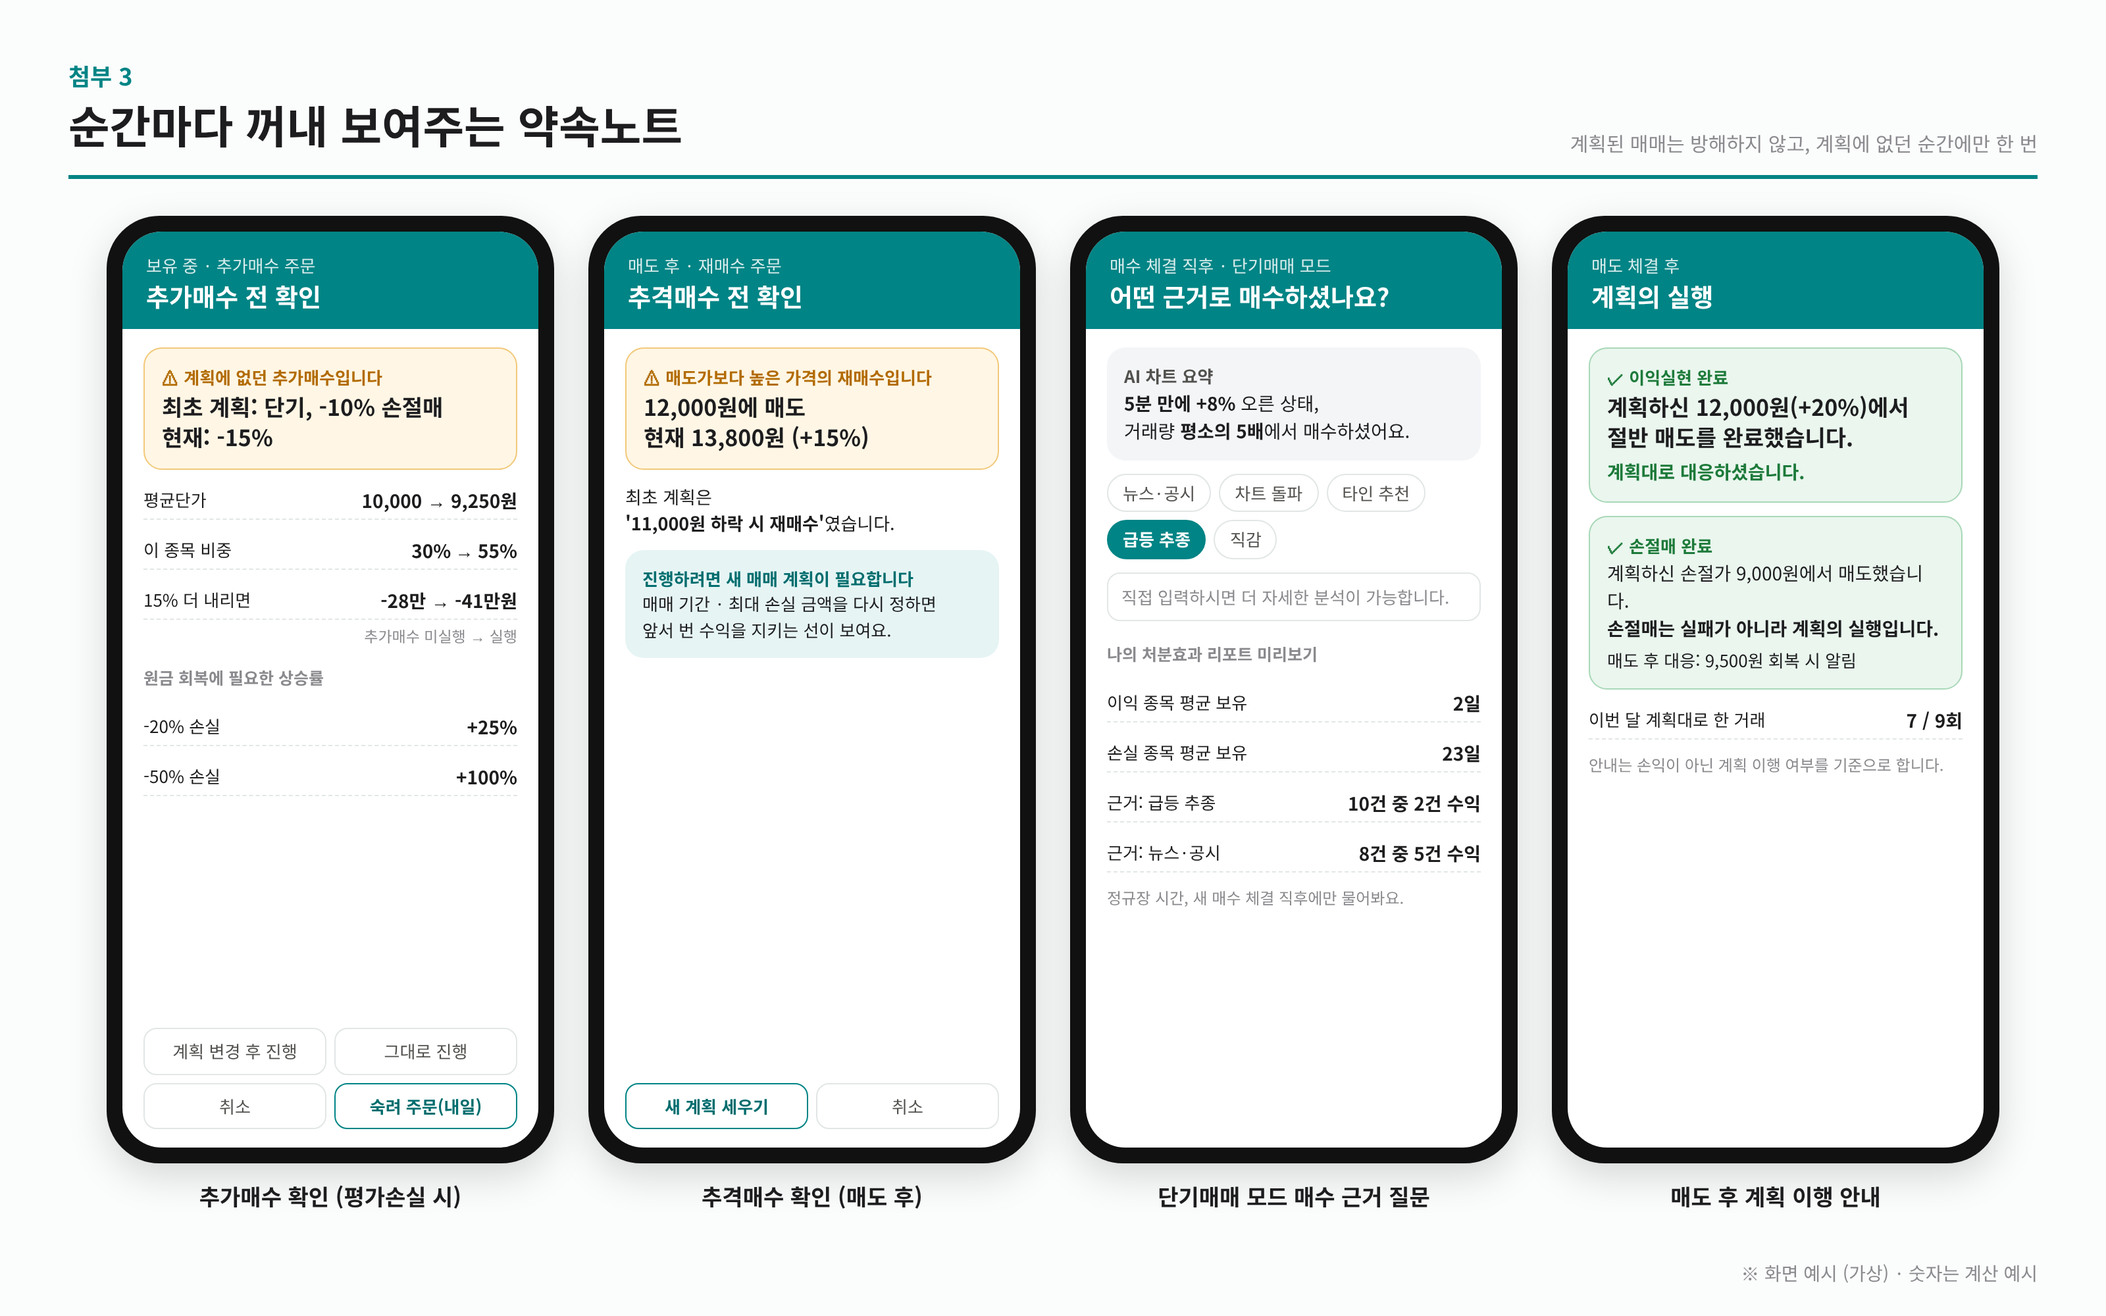
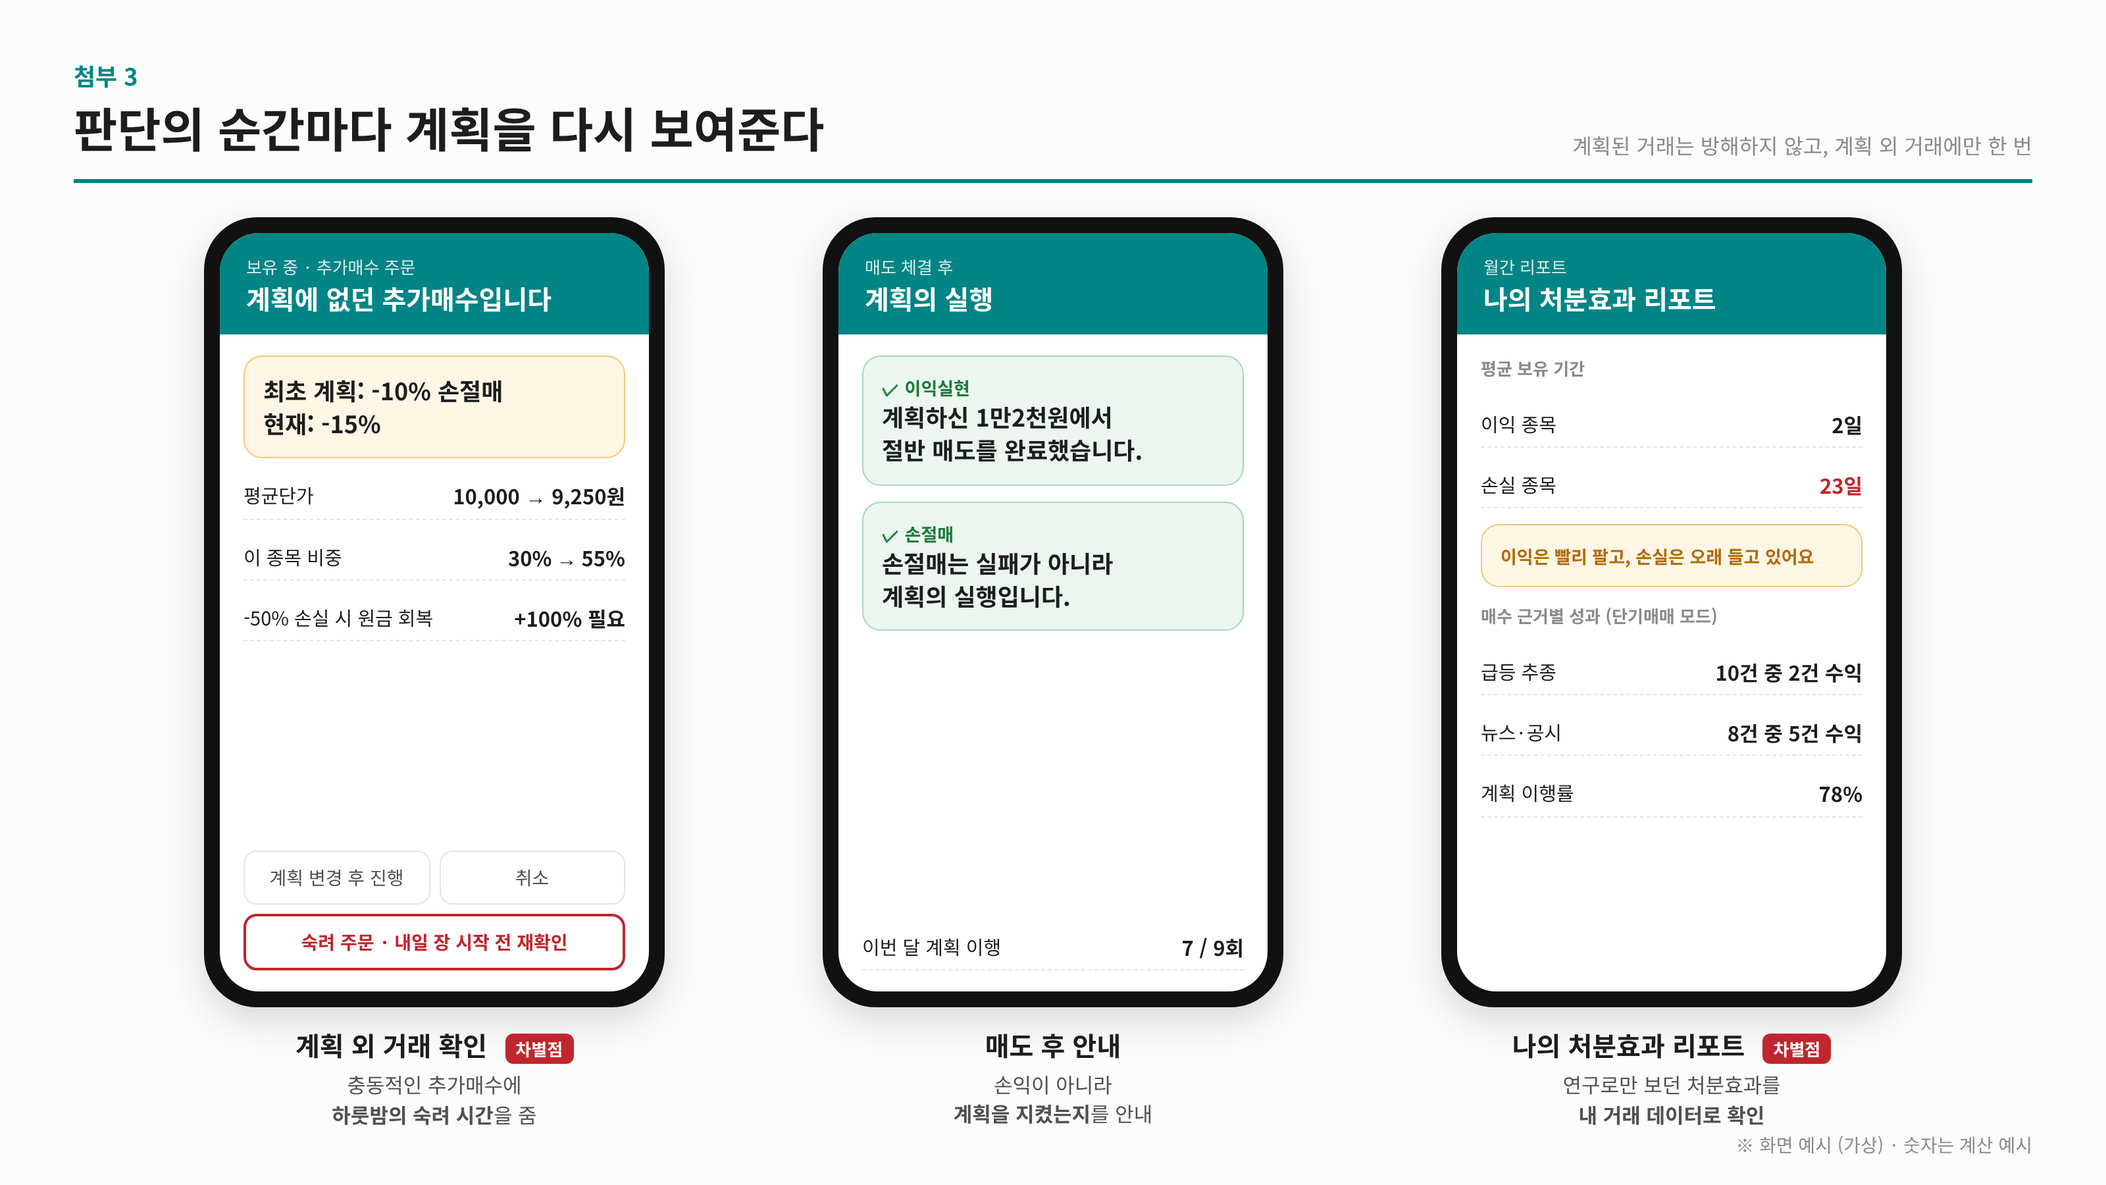
Redesign attachments for at-a-glance reading; align with v12 text
Claude-Session: https://claude.ai/code/session_01TKkDqm14RjDDXPetjfDB7T

Changed region(s): [[0.0312, 0.0311, 0.9688, 0.9644], [0.8438, 0.9644, 0.9688, 0.9956]]

diff --git a/contest/report/첨부이미지_v2.html b/contest/report/첨부이미지_v2.html
@@ -1,0 +1,210 @@
+<!DOCTYPE html>
+<html lang="ko">
+<head>
+<meta charset="utf-8">
+<style>
+@font-face{font-family:"NotoKR";font-weight:400;src:url(fonts/noto-sans-kr-korean-400-normal.woff2) format("woff2");}
+@font-face{font-family:"NotoKR";font-weight:700;src:url(fonts/noto-sans-kr-korean-700-normal.woff2) format("woff2");}
+@font-face{font-family:"NotoKRL";font-weight:400;src:url(fonts/noto-sans-kr-latin-400-normal.woff2) format("woff2");}
+@font-face{font-family:"NotoKRL";font-weight:700;src:url(fonts/noto-sans-kr-latin-700-normal.woff2) format("woff2");}
+:root{--teal:#008485;--teal-d:#006d6e;--teal-l:#e6f4f4;--ink:#1d1d1f;--ink2:#52514e;--muted:#8a8a8e;--line:#e2e6e6;
+  --s1:#2a78d6;--s2:#eb6834;--s3:#c0262d;--warn-bg:#fff6e5;--warn:#b26b00;--good-bg:#eaf6ee;--good:#1d7a3a;--new:#c0262d;}
+*{box-sizing:border-box;}
+body{margin:0;font-family:"NotoKRL","NotoKR",sans-serif;color:var(--ink);background:#fff;}
+.sheet{width:1600px;height:1000px;padding:44px 56px;position:relative;background:#fbfcfc;overflow:hidden;}
+.sheet+.sheet{margin-top:40px;}
+.head{display:flex;justify-content:space-between;align-items:flex-end;border-bottom:3px solid var(--teal);padding-bottom:14px;margin-bottom:26px;}
+.head h1{font-size:36px;margin:0;}
+.head .no{font-size:18px;color:var(--teal);font-weight:700;}
+.head .note{font-size:16px;color:var(--muted);}
+.virtual{position:absolute;right:56px;bottom:20px;font-size:14px;color:var(--muted);}
+.new{display:inline-block;background:var(--new);color:#fff;font-size:13px;font-weight:700;border-radius:6px;padding:2px 8px;margin-left:8px;vertical-align:middle;}
+/* image1 */
+.banner{background:var(--teal);color:#fff;border-radius:16px;padding:22px 30px;text-align:center;margin-bottom:30px;}
+.banner .m{font-size:30px;font-weight:700;}
+.banner .s{font-size:18px;opacity:.9;margin-top:6px;}
+.flow{display:flex;align-items:stretch;}
+.step{flex:1;background:#fff;border:2.5px solid var(--teal);border-radius:18px;padding:22px 22px 20px;display:flex;flex-direction:column;}
+.step .when{font-size:16px;color:var(--teal);font-weight:700;}
+.step h3{font-size:27px;margin:6px 0 10px;}
+.step .d{font-size:18px;color:var(--ink2);line-height:1.5;flex:1;}
+.step .q{margin-top:14px;background:var(--teal-l);border-radius:12px;padding:12px 14px;font-size:17px;line-height:1.45;font-weight:700;color:var(--teal-d);}
+.arrow{width:44px;display:flex;align-items:center;justify-content:center;font-size:40px;color:var(--teal);}
+.addon{display:flex;align-items:center;gap:14px;margin-top:22px;background:#fff;border:2px dashed var(--teal);border-radius:14px;padding:14px 20px;font-size:18px;}
+.addon b{color:var(--teal-d);white-space:nowrap;}
+.chipx{border:1.5px solid var(--line);border-radius:999px;padding:6px 14px;background:#fbfcfc;}
+.ba{width:100%;border-collapse:separate;border-spacing:0;margin-top:22px;font-size:19px;background:#fff;border:2px solid var(--line);border-radius:14px;overflow:hidden;}
+.ba th,.ba td{padding:11px 18px;border-bottom:1px solid var(--line);text-align:left;}
+.ba tr:last-child td{border-bottom:none;}
+.ba th{background:var(--teal-l);color:var(--teal-d);font-size:16px;}
+.ba td.k{font-weight:700;width:130px;}
+.ba td.b{color:var(--ink2);width:38%;}
+.ba td.ar{color:var(--teal);width:40px;text-align:center;font-weight:700;}
+.ba td.a{font-weight:700;}
+.foot{margin-top:16px;font-size:16px;color:var(--ink2);text-align:center;}
+/* phones */
+.phones{display:flex;gap:56px;justify-content:center;align-items:flex-start;}
+.phone{width:350px;height:700px;border-radius:40px;background:#111;padding:12px;box-shadow:0 10px 30px rgba(0,0,0,.15);flex:none;}
+.screen{width:100%;height:100%;border-radius:30px;background:#fff;overflow:hidden;display:flex;flex-direction:column;}
+.bar{background:var(--teal);color:#fff;padding:16px 20px 13px;}
+.bar .t{font-size:13px;opacity:.85;}
+.bar .h{font-size:20px;font-weight:700;}
+.body{padding:16px 18px;font-size:14.5px;line-height:1.5;flex:1;display:flex;flex-direction:column;gap:12px;}
+.lbl{font-size:13px;color:var(--muted);font-weight:700;margin-bottom:4px;}
+.chips{display:flex;gap:6px;flex-wrap:wrap;}
+.chip{border:1.5px solid var(--line);border-radius:999px;padding:4px 12px;font-size:13.5px;color:var(--ink2);}
+.chip.on{border-color:var(--teal);background:var(--teal);color:#fff;font-weight:700;}
+.field{border:1.5px solid var(--line);border-radius:12px;padding:10px 12px;}
+.field .v{font-size:20px;font-weight:700;}
+.calc{font-size:13.5px;color:var(--teal-d);font-weight:700;}
+.mini{width:100%;border-collapse:collapse;font-size:13px;}
+.mini th,.mini td{border-bottom:1px solid var(--line);padding:5px 3px;text-align:right;}
+.mini th:first-child,.mini td:first-child{text-align:left;}
+.mini th{color:var(--muted);}
+.mini .me{color:var(--teal-d);font-weight:700;background:var(--teal-l);}
+.btn{background:var(--teal);color:#fff;text-align:center;border-radius:12px;padding:12px;font-weight:700;font-size:15.5px;margin-top:auto;}
+.btn2{border:1.5px solid var(--line);text-align:center;border-radius:10px;padding:9px;font-size:14px;color:var(--ink2);}
+.btn2.hl{border:2.5px solid var(--new);color:var(--new);font-weight:700;}
+.btns{display:grid;grid-template-columns:1fr 1fr;gap:7px;margin-top:auto;}
+.card{border-radius:14px;padding:13px 14px;}
+.card.warn{background:var(--warn-bg);border:1.5px solid #f2c97a;}
+.card.good{background:var(--good-bg);border:1.5px solid #a9d8b8;}
+.card .ic{font-size:13.5px;font-weight:700;}
+.card.warn .ic{color:var(--warn);}
+.card.good .ic{color:var(--good);}
+.big{font-size:18px;font-weight:700;line-height:1.4;}
+.row{display:flex;justify-content:space-between;font-size:14.5px;padding:5px 0;border-bottom:1px dashed var(--line);}
+.row b{font-size:15.5px;}
+.note{font-size:12.5px;color:var(--muted);}
+.capw{display:flex;flex-direction:column;align-items:center;width:430px;}
+.cap{text-align:center;font-size:20px;font-weight:700;margin-top:14px;}
+.capd{text-align:center;font-size:15.5px;color:var(--ink2);margin-top:4px;line-height:1.45;}
+svg text{font-family:"NotoKRL","NotoKR",sans-serif;}
+</style>
+</head>
+<body>
+
+<!-- ================= 첨부 1: 한눈에 보는 서비스 ================= -->
+<div class="sheet" id="img1" style="height:1070px">
+  <div class="head"><div><div class="no">첨부 1</div><h1>하나뿐인 약속노트 한눈에 보기</h1></div><div class="note">신청한 손님만 이용하는 선택형 서비스</div></div>
+  <div class="banner"><div class="m">예측은 할 수 없어도, 대응은 매수 전에 정할 수 있다</div><div class="s">행동재무학의 사전약속(pre-commitment) 원리를 MTS 주문 흐름에 적용</div></div>
+  <div class="flow">
+    <div class="step"><div class="when">① 매수 전</div><h3>매매 계획 수립</h3>
+      <div class="d">매매 기간, 최대 손실 금액, 목표 수익, 매도 후 대응을 손님이 직접 정함</div>
+      <div class="q">최대 손실 10만원 → 손절가 9천원 · 최대 매수 100주</div></div>
+    <div class="arrow">›</div>
+    <div class="step"><div class="when">② 보유 중</div><h3>계획 외 거래 확인</h3>
+      <div class="d">계획에 없던 추가매수·추격매수 때만 최초 계획을 다시 보여줌</div>
+      <div class="q">숙려 주문<span class="new">차별점</span><br>다음 날 장 시작 전 재확인 후 주문</div></div>
+    <div class="arrow">›</div>
+    <div class="step"><div class="when">③ 매도 후</div><h3>계획의 실행</h3>
+      <div class="d">체결 후 손익이 아닌 계획 이행 여부를 안내함</div>
+      <div class="q">"손절매는 실패가 아니라 계획의 실행입니다."</div></div>
+  </div>
+  <div class="addon"><b>부가 기능</b>
+    <span class="chipx"><b>나의 처분효과 리포트</b><span class="new">차별점</span></span>
+    <span class="chipx">레버리지 상품 확인</span>
+    <span class="chipx">단기매매 모드 (AI 매수 근거 질문)</span>
+  </div>
+  <table class="ba">
+    <tr><th>상황</th><th>서비스 이용 전</th><th></th><th>서비스 이용 후</th></tr>
+    <tr><td class="k">매수</td><td class="b">손실 한도 없이 매수</td><td class="ar">→</td><td class="a">최대 손실 금액과 매도 기준을 정하고 매수</td></tr>
+    <tr><td class="k">하락</td><td class="b">즉흥적 추가매수</td><td class="ar">→</td><td class="a">계획과 투자금 영향 확인 후 하루 숙려</td></tr>
+    <tr><td class="k">상승</td><td class="b">기준 없는 매도로 수익 반납</td><td class="ar">→</td><td class="a">계획한 목표가에서 분할 매도</td></tr>
+    <tr><td class="k">레버리지</td><td class="b">구조만 이해하고 매수</td><td class="ar">→</td><td class="a">본인 투자금 기준 손실 규모 확인 후 매수</td></tr>
+  </table>
+  <div class="foot">계획된 거래는 방해하지 않음 · 계산과 비교만 제공 · 판단과 주문은 손님이</div>
+  <div class="virtual">※ 서비스 구조 예시 (가상)</div>
+</div>
+
+<!-- ================= 첨부 2: 매수 전 화면 ================= -->
+<div class="sheet" id="img2">
+  <div class="head"><div><div class="no">첨부 2</div><h1>매수 전 — 내 돈 기준으로 계획하고 확인한다</h1></div><div class="note">금액은 예시 · 1만원 종목 100주 / 레버리지 500만원</div></div>
+  <div class="phones">
+    <div class="capw"><div class="phone"><div class="screen">
+      <div class="bar"><div class="t">하나뿐인 약속노트 · 매수 전</div><div class="h">이번 매매 계획</div></div>
+      <div class="body">
+        <div><div class="lbl">① 매매 기간</div><div class="chips"><span class="chip on">단기</span><span class="chip">중기</span><span class="chip">장기</span></div></div>
+        <div class="field"><div class="lbl">② 최대 손실 금액</div><div class="v">100,000원</div><div class="calc">→ 손절가 9,000원 · 최대 매수 수량 100주</div></div>
+        <div class="field"><div class="lbl">③ 목표 수익</div><div class="v">+200,000원</div><div class="calc">→ 목표가 12,000원에서 절반 매도</div></div>
+        <div><div class="lbl">분할 매도 결과 비교</div>
+          <table class="mini"><tr><th>이후 주가</th><th>일괄</th><th>보유</th><th class="me">분할</th></tr>
+          <tr><td>14,000원</td><td>+20만</td><td>+40만</td><td class="me">+30만</td></tr>
+          <tr><td>10,000원</td><td>+20만</td><td>0</td><td class="me">+15만</td></tr></table></div>
+        <div><div class="lbl">④ 매도 후 대응</div><div class="chips"><span class="chip on">재매수 알림</span><span class="chip">매수 보류</span><span class="chip">거래 종료</span></div></div>
+        <div class="note">⚠ 갭하락 시 실제 손실이 한도를 넘을 수 있음</div>
+        <div class="btn">계획 확인 · 감시주문 연동</div>
+      </div></div></div>
+      <div class="cap">매매 계획 수립</div><div class="capd">금액만 입력하면 손절가와<br><b>최대 매수 수량까지 거꾸로 계산</b></div></div>
+
+    <div class="capw" style="width:640px"><div class="phone" style="width:600px"><div class="screen">
+      <div class="bar"><div class="t">레버리지 상품 확인 · 매수 전</div><div class="h">급락 시 내 투자금 500만원은?</div></div>
+      <div class="body">
+        <div style="font-size:14px;color:var(--ink2)">첫날 -10% 급락 후 +5%, -5% 반복(횡보) 시</div>
+        <svg width="560" height="320" viewBox="0 0 560 320" role="img" aria-label="1배, 2배, 3배 투자금 변화">
+          <g stroke="#e2e6e6" stroke-width="1"><line x1="50" y1="30" x2="430" y2="30"/><line x1="50" y1="90" x2="430" y2="90"/><line x1="50" y1="150" x2="430" y2="150"/><line x1="50" y1="210" x2="430" y2="210"/><line x1="50" y1="270" x2="430" y2="270"/></g>
+          <g font-size="12" fill="#8a8a8e" text-anchor="end"><text x="44" y="34">520</text><text x="44" y="94">460</text><text x="44" y="154">400</text><text x="44" y="214">340</text><text x="44" y="274">280</text></g>
+          <text x="8" y="16" font-size="12" fill="#8a8a8e">(만원)</text>
+          <line x1="50" y1="50" x2="430" y2="50" stroke="#52514e" stroke-width="1.2" stroke-dasharray="4 4"/>
+          <text x="428" y="44" font-size="12" fill="#52514e" text-anchor="end">원금 500만원</text>
+          <g font-size="12" fill="#8a8a8e" text-anchor="middle"><text x="50" y="292">매수</text><text x="126" y="292">1일</text><text x="202" y="292">2일</text><text x="278" y="292">3일</text><text x="354" y="292">4일</text><text x="430" y="292">5일</text></g>
+          <!-- y = 270 - (v-280) -->
+          <polyline fill="none" stroke="#2a78d6" stroke-width="3" stroke-linejoin="round" points="50,50 126,100 202,77.5 278,101.1 354,78.7 430,102.2"/>
+          <polyline fill="none" stroke="#eb6834" stroke-width="3" stroke-linejoin="round" points="50,50 126,150 202,110 278,154 354,114.4 430,158"/>
+          <polyline fill="none" stroke="#c0262d" stroke-width="3.5" stroke-linejoin="round" points="50,50 126,200 202,147.5 278,207.9 354,156.6 430,215.6"/>
+          <circle cx="430" cy="102.2" r="5" fill="#2a78d6" stroke="#fff" stroke-width="2"/><circle cx="430" cy="158" r="5" fill="#eb6834" stroke="#fff" stroke-width="2"/><circle cx="430" cy="215.6" r="5.5" fill="#c0262d" stroke="#fff" stroke-width="2"/>
+          <g font-size="15" fill="#1d1d1f"><text x="442" y="107"><tspan font-weight="700">1배</tspan> 448만원</text><text x="442" y="163"><tspan font-weight="700">2배</tspan> 392만원</text><text x="442" y="221"><tspan font-weight="700">3배</tspan> 334만원</text></g>
+        </svg>
+        <div class="card warn"><div class="ic">⚠ 원금을 되찾으려면</div><div style="font-size:16px">1배 <b>+12%</b> · 2배 <b>+28%</b> · 3배 <b style="color:var(--s3)">+50%</b> 상승이 필요합니다</div></div>
+        <div class="note">과거 데이터 기반 계산 예시이며 미래 수익률을 예측하지 않습니다.</div>
+        <div class="btn">이해도 확인 3문항 후 매수</div>
+      </div></div></div>
+      <div class="cap">레버리지 상품 확인</div><div class="capd">사전교육에서 배운 구조를<br><b>매수 시점에 내 투자금으로 확인</b></div></div>
+  </div>
+  <div class="virtual">※ 화면 예시 (가상)</div>
+</div>
+
+<!-- ================= 첨부 3: 보유 중 · 매도 후 · 월간 ================= -->
+<div class="sheet" id="img3" style="height:900px"><style>#img3 .phone{height:600px}</style>
+  <div class="head"><div><div class="no">첨부 3</div><h1>판단의 순간마다 계획을 다시 보여준다</h1></div><div class="note">계획된 거래는 방해하지 않고, 계획 외 거래에만 한 번</div></div>
+  <div class="phones" style="gap:40px">
+    <div class="capw"><div class="phone"><div class="screen">
+      <div class="bar"><div class="t">보유 중 · 추가매수 주문</div><div class="h">계획에 없던 추가매수입니다</div></div>
+      <div class="body">
+        <div class="card warn"><div class="big">최초 계획: -10% 손절매<br>현재: -15%</div></div>
+        <div class="row"><span>평균단가</span><b>10,000 → 9,250원</b></div>
+        <div class="row"><span>이 종목 비중</span><b>30% → 55%</b></div>
+        <div class="row"><span>-50% 손실 시 원금 회복</span><b>+100% 필요</b></div>
+        <div class="btns"><div class="btn2">계획 변경 후 진행</div><div class="btn2">취소</div>
+          <div class="btn2 hl" style="grid-column:1 / span 2">숙려 주문 · 내일 장 시작 전 재확인</div></div>
+      </div></div></div>
+      <div class="cap">계획 외 거래 확인 <span class="new">차별점</span></div><div class="capd">충동적인 추가매수에<br><b>하룻밤의 숙려 시간</b>을 줌</div></div>
+
+    <div class="capw"><div class="phone"><div class="screen">
+      <div class="bar"><div class="t">매도 체결 후</div><div class="h">계획의 실행</div></div>
+      <div class="body">
+        <div class="card good"><div class="ic">✓ 이익실현</div><div class="big">계획하신 1만2천원에서<br>절반 매도를 완료했습니다.</div></div>
+        <div class="card good"><div class="ic">✓ 손절매</div><div class="big">손절매는 실패가 아니라<br>계획의 실행입니다.</div></div>
+        <div class="row" style="margin-top:auto"><span>이번 달 계획 이행</span><b>7 / 9회</b></div>
+      </div></div></div>
+      <div class="cap">매도 후 안내</div><div class="capd">손익이 아니라<br><b>계획을 지켰는지</b>를 안내</div></div>
+
+    <div class="capw"><div class="phone"><div class="screen">
+      <div class="bar"><div class="t">월간 리포트</div><div class="h">나의 처분효과 리포트</div></div>
+      <div class="body">
+        <div class="lbl">평균 보유 기간</div>
+        <div class="row"><span>이익 종목</span><b>2일</b></div>
+        <div class="row"><span>손실 종목</span><b style="color:var(--s3)">23일</b></div>
+        <div class="card warn"><div class="ic">이익은 빨리 팔고, 손실은 오래 들고 있어요</div></div>
+        <div class="lbl">매수 근거별 성과 (단기매매 모드)</div>
+        <div class="row"><span>급등 추종</span><b>10건 중 2건 수익</b></div>
+        <div class="row"><span>뉴스·공시</span><b>8건 중 5건 수익</b></div>
+        <div class="row"><span>계획 이행률</span><b>78%</b></div>
+      </div></div></div>
+      <div class="cap">나의 처분효과 리포트 <span class="new">차별점</span></div><div class="capd">연구로만 보던 처분효과를<br><b>내 거래 데이터로 확인</b></div></div>
+  </div>
+  <div class="virtual">※ 화면 예시 (가상) · 숫자는 계산 예시</div>
+</div>
+
+</body>
+</html>
